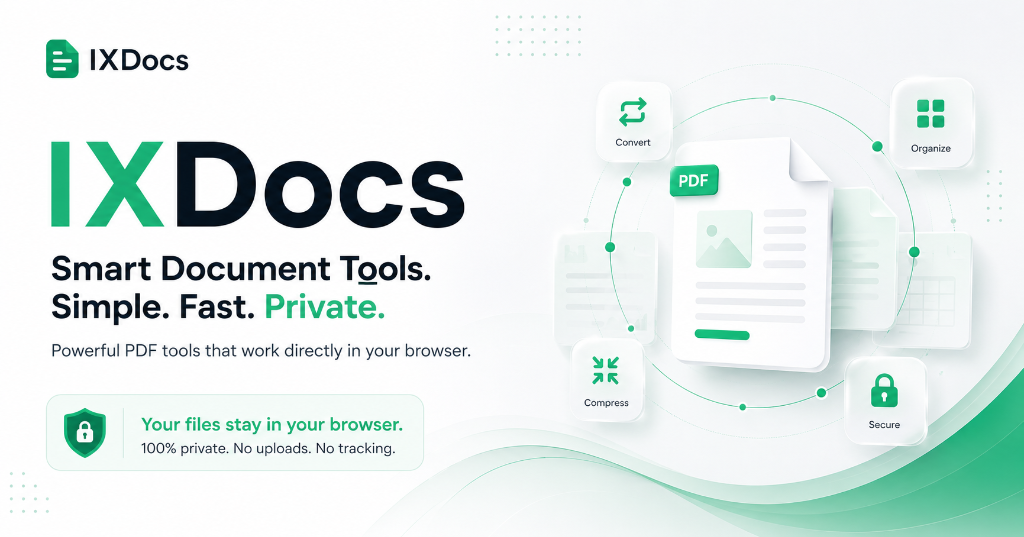
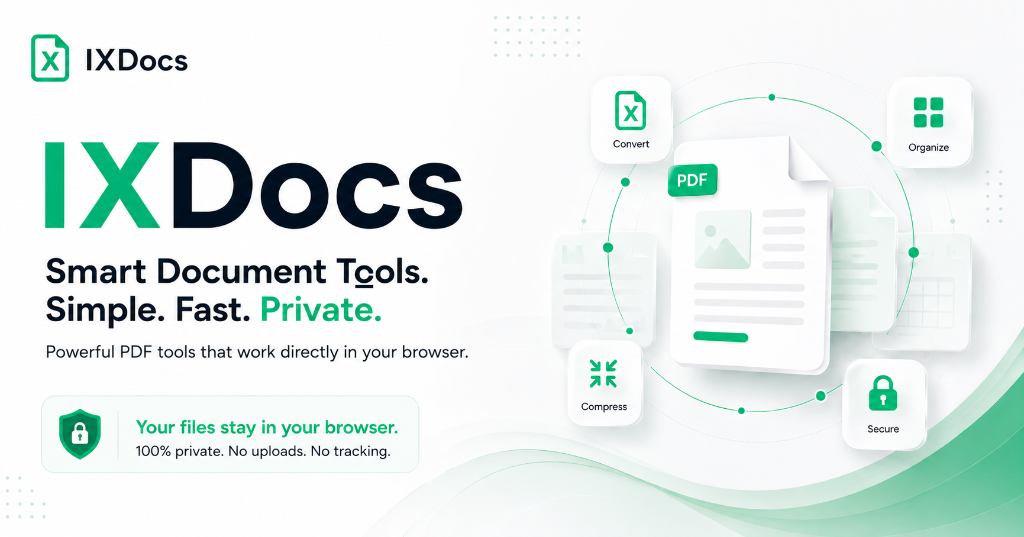
Update IXDocs Open Graph image

diff --git a/src/routes/__root.tsx b/src/routes/__root.tsx
@@ -99,8 +99,8 @@ export const Route = createRootRouteWithContext<{ queryClient: QueryClient }>()(
       },
       { property: "og:type", content: "website" },
       { property: "og:image", content: "https://ixdocs.com/ixdocs-og-image.png" },
-      { property: "og:image:width", content: "1200" },
-      { property: "og:image:height", content: "630" },
+      { property: "og:image:width", content: "1024" },
+      { property: "og:image:height", content: "537" },
       { property: "og:image:type", content: "image/png" },
       { name: "twitter:card", content: "summary_large_image" },
       { name: "twitter:image", content: "https://ixdocs.com/ixdocs-og-image.png" },
